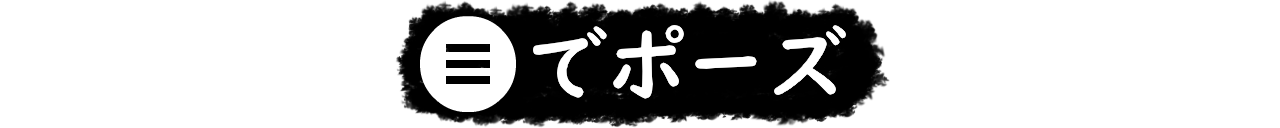
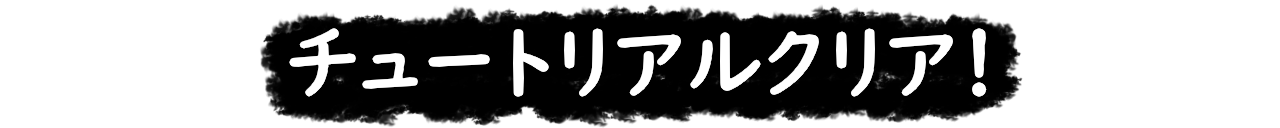
チュートリアルシーン完成

Changed region(s): [[0.1875, 0.0, 0.8125, 1.0]]

diff --git a/Scene/TutorialScene.cpp b/Scene/TutorialScene.cpp
@@ -55,19 +55,17 @@ void TutorialScene::Update() {
 
 	UpdatePause();
 
-	UpdateEnemy();
-
 	UpdateCollision();
 
 	if (!isPause_) {
+		UpdateEnemy();
 		player_->Update(useCamera_);
 		skyBox_->Update(useCamera_);
 		enemy_->Update(*useCamera_);
 		enemyBullet_->Update(*useCamera_);
 		exprotion_->Update(*useCamera_);
+		UpdateTutorialTest();
 	}
-	
-	UpdateTutorialTest();
 
 	UpdateFade();
 }
@@ -113,12 +111,6 @@ void TutorialScene::Draw() {
 	ImGui::NewFrame();
 	// 開発用UIの処理、実際に開発用のUIを出す場合はここをゲーム固有の処理に置き換える
 	/*ImGui::ShowDemoWindow();*/
-
-	debugCamera_->DrawImgui();
-
-	player_->DrawImGui();
-
-	//skyBox_->DrawImGui();
 
 	// Imguiの内部コマンドを生成する
 	ImGui::Render();
@@ -305,15 +297,21 @@ void TutorialScene::UpdateTutorialTest() {
 			testUIPos_ = testUI_->GetPosition();
 			testUIPos_.y -= testUISpeed_ * deltaTime_;
 			if (testUIPos_.y <= -128.0f) {
-				testState_ = Test5;
+				testState_ = Test6;
 				testUIClear_ = false;
 				testUI_->SetColor({ 1.0f,1.0f,1.0f,1.0f });
-				testUI_->SetTexture("resources/image/UI/tutoUI5.png");
+				testUI_->SetTexture("resources/image/UI/tutoUI6.png");
 			}
-		}
-		else {
+		} else {
 			testUIPos_ = testUI_->GetPosition();
 			testUIPos_.y += testUISpeed_ * deltaTime_;
+		}
+		break;
+	case TutorialScene::Test6:
+		testUIPos_ = testUI_->GetPosition();
+		testUIPos_.y += testUISpeed_ * deltaTime_;
+		if (testUIPos_.y >= 128.0f) {
+			fade_->SetIsFade(true);
 		}
 		break;
 	}
@@ -412,6 +410,13 @@ void TutorialScene::UpdateCollision() {
 				bullet->SetIsAlive(false);
 				enemy_->SetColor({ 0.0f,0.0f,0.0f,1.0f });
 			}
+		}
+	}
+
+	if (player_->BeamIsAlive()) {
+		if (IsCollideSphere(player_->BeamWorldPosition(), 1.5f, enemyPos, enemyRadius)) {
+			player_->BeamHit();
+			enemy_->SetColor({ 0.0f,0.0f,0.0f,1.0f });
 		}
 	}
 }

diff --git a/SceneObject/Character/Player/PlayerBeam.cpp b/SceneObject/Character/Player/PlayerBeam.cpp
@@ -4,6 +4,8 @@ void PlayerBeam::Initialize(DirectXCommon* dxCommon) {
 	dxCommon_ = dxCommon;
 
 	model_->Initialize(dxCommon_, "resources/object3d/player/playerBeam.obj");
+	model_->SetTranslate({ 0.0f, 0.0f, -100.0f });
+
 	pBeam_->Initialize(dxCommon_, "resources/image/particle/box.png", 2);
 	pBeam_->SetUseEmitter(true);
 
@@ -39,8 +41,17 @@ void PlayerBeam::Update(Camera* camera) {
 		model_->Update(*camera);
 
 	} else {
-		model_->SetTranslate({0.0f,0.0f,-50.0f});
+		if (isDelete_) {
+			model_->SetTranslate({ 0.0f, 0.0f, -100.0f });
+		} else {
+			deleteTimer_ += deltaTime_;
+			if (deleteTimer_ >= deleteTime_) {
+				deleteTimer_ = 0.0f;
+				isDelete_ = true;
+			}
+		}
 	}
+
 	pBeam_->SetEmitterPosition(model_->GetTranslate());
 	pBeam_->Update(*camera);
 }
@@ -59,5 +70,32 @@ void PlayerBeam::DrawImGui() {
 void PlayerBeam::Spawn(Vector3 translate, Vector3 velocity) {
     model_->SetTranslate(translate);
     isAlive_ = true;
+	isDelete_ = false;
     velocity_ = velocity;
+	timer_ = 0.0f;
+	deleteTimer_ = 0.0f;
+
+	beamRange_.minScale = { 0.1f,0.1f,0.1f };
+	beamRange_.maxScale = { 1.0f,1.0f,1.0f };
+	beamRange_.minVelocity = { -0.1f,-0.1f,-0.1f };
+	beamRange_.maxVelocity = { 0.1f,0.1f,0.1f };
+	beamRange_.minColor = { 0.0f,0.0f,0.2f };
+	beamRange_.maxColor = { 0.0f,0.5f,0.8f };
+	beamRange_.minLifeTime = 0.1f;
+	beamRange_.maxLifeTime = 0.5f;
+	pBeam_->SetEmitterRange(beamRange_);
+}
+
+void PlayerBeam::Hit() {
+	beamRange_.minScale = { 0.1f,0.1f,0.1f };
+	beamRange_.maxScale = { 1.0f,1.0f,1.0f };
+	beamRange_.minVelocity = { -1.0f,-1.0f,-1.0f };
+	beamRange_.maxVelocity = { 1.0f,1.0f,1.0f };
+	beamRange_.minColor = { 0.0f,0.0f,0.2f };
+	beamRange_.maxColor = { 0.0f,0.5f,0.8f };
+	beamRange_.minLifeTime = 0.1f;
+	beamRange_.maxLifeTime = 0.5f;
+	pBeam_->SetEmitterRange(beamRange_);
+
+	isAlive_ = false;
 }

diff --git a/SceneObject/Character/Player/PlayerBeam.h b/SceneObject/Character/Player/PlayerBeam.h
@@ -20,10 +20,16 @@ public:
 	void DrawImGui();
 
 	void Spawn(Vector3 translate, Vector3 velocity);
+	
+	void Hit();
 
 	void SetIsAlive(bool isAlive) { isAlive_ = isAlive; }
 
 	bool GetIsAlive() { return isAlive_; }
+
+	Vector3 GetWorldPosition() { return model_->GetWorldPosition(); }
+
+	void SetEmitterRange(EmitterRange range) { beamRange_ = range; }
 private:
 	DirectXCommon* dxCommon_ = nullptr;
 
@@ -38,6 +44,10 @@ private:
 
 	float time_ = 1.0f;
 	float timer_ = 0.0f;
+
+	float deleteTime_ = 0.15f;
+	float deleteTimer_ = 0.0f;
+	bool isDelete_ = false;
 
 	float speed_ = 300.0f;
 	Vector3 velocity_;

diff --git a/SceneObject/Character/Player/Player.h b/SceneObject/Character/Player/Player.h
@@ -33,6 +33,12 @@ public:
 	void Damage();
 
 	std::vector<PlayerBullet*> GetAllBullets();
+
+	void BeamHit() { beam_->Hit(); }
+
+	Vector3 BeamWorldPosition() { return beam_->GetWorldPosition(); }
+
+	bool BeamIsAlive() { return beam_->GetIsAlive(); }
 private:
 	DirectXCommon* dxCommon_ = nullptr;
 	unique_ptr<Object3d> model_ = make_unique<Object3d>();

diff --git a/Scene/TutorialScene.h b/Scene/TutorialScene.h
@@ -57,7 +57,8 @@ private:
 		Test2,
 		Test3,
 		Test4,
-		Test5
+		Test5,
+		Test6
 	};
 	Test testState_ = Test1;
 
